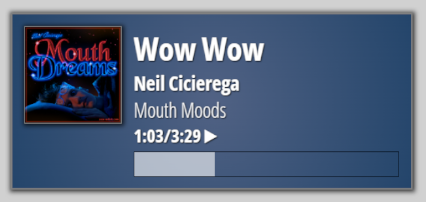
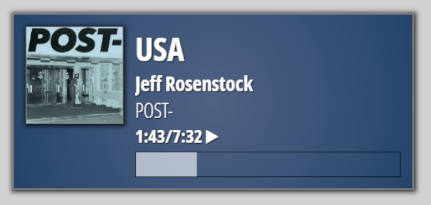
Replaced album art batch with python script

Changed region(s): [[0.0, 0.0594, 0.9765, 0.9802]]

diff --git a/albumart.py b/albumart.py
@@ -1,0 +1,35 @@
+# Script for locating album art given a file path and copying it to
+# the folder this script is run from.
+
+# Created for use with https://github.com/cathoderaydude/FB2KNowPlayingOverlay
+# but you could probably use this with other things, so feel free.
+
+import sys
+import os
+import shutil 
+
+# Make sure we were passed a filename
+if len(sys.argv) < 2:
+    exit()
+
+# This is the folder passed on the command line
+folder = sys.argv[1]
+
+# Get the directory this script lives in so we know where
+# to copy the file. Set the CWD as well, just to be safe.
+abspath = os.path.abspath(__file__)
+dname = os.path.dirname(abspath)
+os.chdir(dname)
+
+# Search for each likely filename
+filenames = ["front.jpg", "cover.jpg", "folder.jpg", folder + ".jpg"]
+for filename in filenames:
+    if(os.path.exists(folder+'\\'+filename)):
+        # Copy the file to this folder
+        shutil.copyfile(folder+'\\'+filename, dname + "\\albumart.jpg")
+        print (folder+'\\'+filename)
+        print (dname + "\\albumart.jpg")
+        exit() # We found it, bail
+        
+# If we made it here, no file was found, so sub in the placeholder
+shutil.copyfile(dname + "\\noart.jpg", dname + "\\albumart.jpg")
